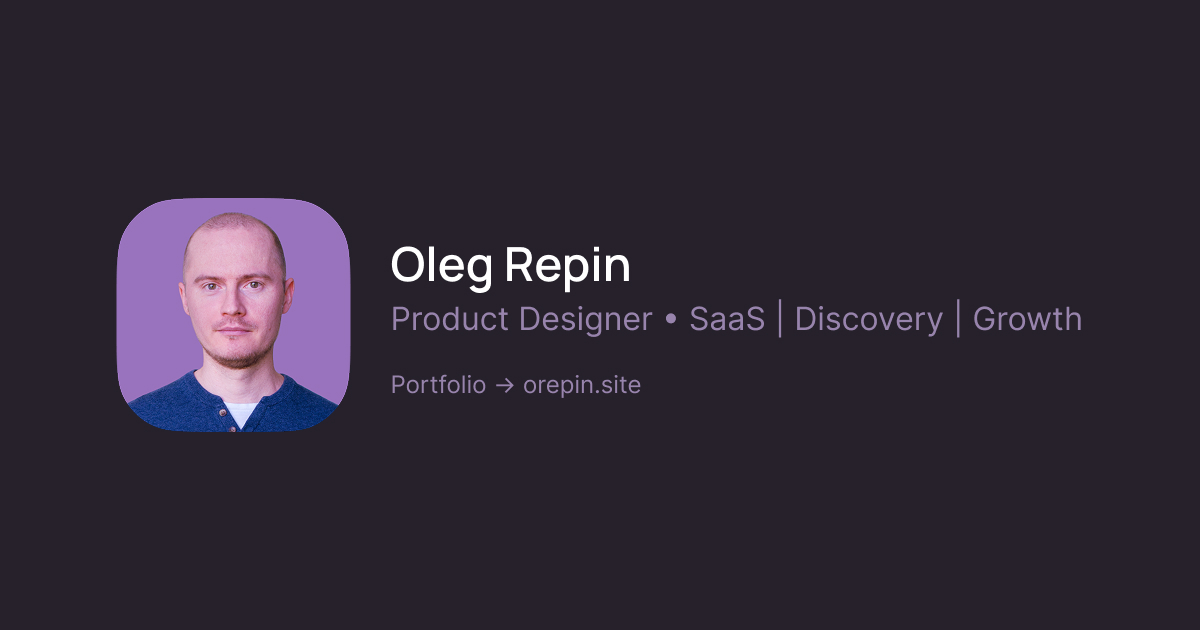
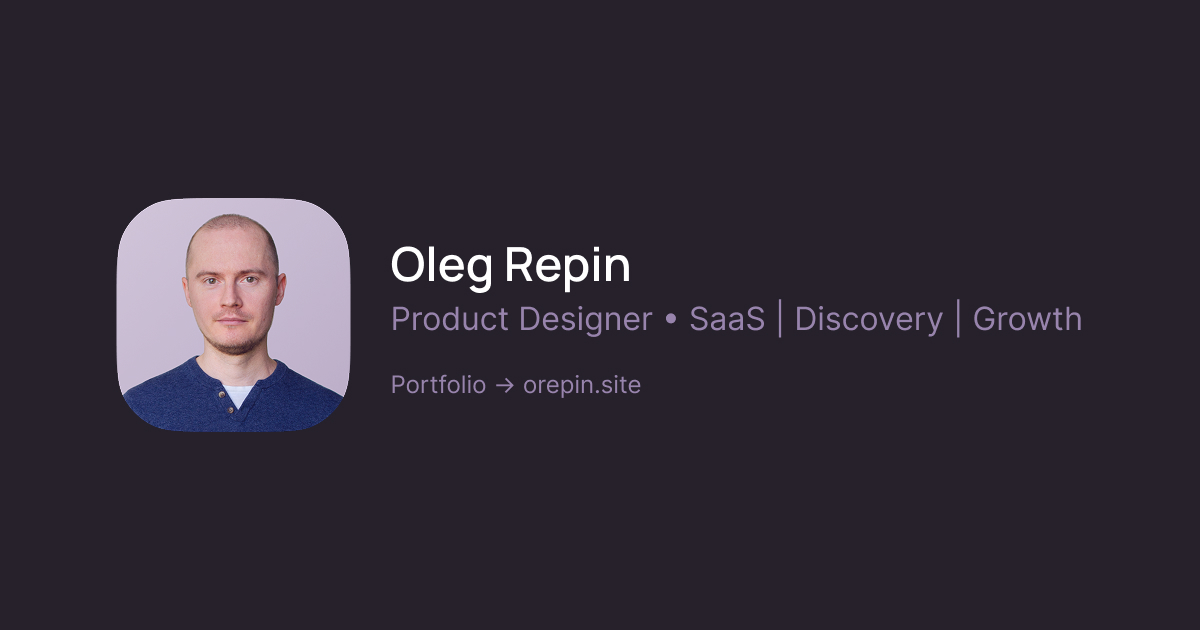
дефисы, перечркнутость аватарки заменил

Changed region(s): [[0.0925, 0.3016, 0.3083, 0.6937]]

diff --git a/html/case-ranking.html b/html/case-ranking.html
@@ -37,7 +37,7 @@
           </figure>
           <p>В&nbsp;бэклоге накопилось несколько задач на&nbsp;добавление новых типов вопросов. Их&nbsp;регулярно просили клиенты через менеджеров и&nbsp;отмечали в&nbsp;наших опросах в&nbsp;личном кабинете. Блок «Ранжирование» был одним из&nbsp;частых запросов.</p>
           <div class="text-block">
-            <h2>Бизнес-цель</h2>
+            <h2>Бизнес&#8209;цель</h2>
             <p>Увеличить выручку за&nbsp;счёт привлечения новых клиентов через тендеры и&nbsp;удержания существующих.</p>
           </div>
           <div class="text-block">
@@ -47,7 +47,7 @@
           <div class="text-block">
             <h2>Итоги на&nbsp;момент написания кейса</h2>
             <p>Релиз запланирован на&nbsp;конец 2025&nbsp;года, поэтому бизнес&#8209;результаты появятся позже. Сейчас я&nbsp;уже не&nbsp;работаю в&nbsp;компании и&nbsp;не&nbsp;участвую в&nbsp;релизе.</p>
-            <p>Работая над задачей, я&nbsp;сосредоточился на&nbsp;том, чтобы продуктовая команда получила решение с&nbsp;понятным виженом, сценариями, UX-обоснованием и&nbsp;измеримыми целями.</p>
+            <p>Работая над задачей, я&nbsp;сосредоточился на&nbsp;том, чтобы продуктовая команда получила решение с&nbsp;понятным виженом, сценариями, UX&#8209;обоснованием и&nbsp;измеримыми целями.</p>
             <p>Определили с&nbsp;продактом, на&nbsp;что будем смотреть после релиза, чтобы оценить успех задачи: долю исследований с&nbsp;этим типом вопроса, CSI исследователей, снижение оттока и&nbsp;влияние фичи на&nbsp;продажи новым клиентам.</p>
             <p>Таким образом я&nbsp;закрыл стратегическую подготовку фичи и&nbsp;передал команде все материалы для&nbsp;реализации.</p>
           </div>       
@@ -56,7 +56,7 @@
         <h2>Теперь подробнее</h2>
         <div class="text-block">
           <h3>Моя роль и&nbsp;шаги</h3>
-          <p>Был продуктовым дизайнером в&nbsp;кросс-команде. Отвечал за&nbsp;исследования, UX&#8209;тесты и&nbsp;проработку сценариев в&nbsp;личном кабинете платформы, а&nbsp;также форм опросов во&nbsp;всех трёх продуктах компании. Обеспечил полную подготовку задачи к&nbsp;разработке.</p>
+          <p>Был продуктовым дизайнером в&nbsp;кросс&#8209;команде. Отвечал за&nbsp;исследования, UX&#8209;тесты и&nbsp;проработку сценариев в&nbsp;личном кабинете платформы, а&nbsp;также форм опросов во&nbsp;всех трёх продуктах компании. Обеспечил полную подготовку задачи к&nbsp;разработке.</p>
         </div>
         <section class="case-steps">
           <div class="step">
@@ -75,14 +75,14 @@
           <div class="step">
               <h3>Собрал&nbsp;User&nbsp;Story&nbsp;Map</h3>
               <div>
-                <p>Собрал карту сценариев по&nbsp;личному кабинету и&nbsp;формам (Web, Link, App). Зафиксировал MVP-скоуп, а&nbsp;сложные или спорные&nbsp;сценарии отложил на&nbsp;следующие итерации.</p>
+                <p>Собрал карту сценариев по&nbsp;личному кабинету и&nbsp;формам (Web, Link, App). Зафиксировал MVP&#8209;скоуп, а&nbsp;сложные или спорные&nbsp;сценарии отложил на&nbsp;следующие итерации.</p>
                 <div>
                   <a href="https://miro.com/app/live-embed/o9J_kwwEvKg=/?focusWidget=3458764642529485279&embedMode=view_only_without_ui&embedId=540593321931" target="_blank" class="external-link miro-link">USM в&nbsp;Miro</a>
                 </div>
               </div>
           </div>
           <div class="step">
-              <h3>Провел UX-тесты</h3>
+              <h3>Провел UX&#8209;тесты</h3>
               <p>Проверил несколько сценариев взаимодействия с&nbsp;вопросом, выбрал и&nbsp;доработал самые удобные для&nbsp;респондентов.</p>
   
           </div>
@@ -99,11 +99,11 @@
       <div class="case-solutions">
         <div class="text-block">
           <h2>Интервью с&nbsp;исследователями</h2>
-          <p>Я&nbsp;сфокусировался на&nbsp;исследователях и&nbsp;руководителях исследовательских отделов — людях с&nbsp;опытом работы с&nbsp;приоритизацией и&nbsp;сложными опросами. За&nbsp;три дня провёл 7&nbsp;интервью с&nbsp;10&nbsp;участниками. Обсуждали, как они решают задачу ранжирования, какие данные используют и&nbsp;что мешает. С&nbsp;остальными, кто не&nbsp;смог созвониться, я&nbsp;провёл короткий онлайн-опрос, чтобы не&nbsp;потерять инсайты.</p>  
+          <p>Я&nbsp;сфокусировался на&nbsp;исследователях и&nbsp;руководителях исследовательских отделов — людях с&nbsp;опытом работы с&nbsp;приоритизацией и&nbsp;сложными опросами. За&nbsp;три дня провёл 7&nbsp;интервью с&nbsp;10&nbsp;участниками. Обсуждали, как они решают задачу ранжирования, какие данные используют и&nbsp;что мешает. С&nbsp;остальными, кто не&nbsp;смог созвониться, я&nbsp;провёл короткий онлайн&#8209;опрос, чтобы не&nbsp;потерять инсайты.</p>  
         </div>
         <div class="solution-block">
           <div>
-            <p><strong>Инсайт:</strong> У&nbsp;исследователей разные подходы к&nbsp;приоритизации: в&nbsp;одних сценариях важно отранжировать все варианты, в&nbsp;других — только часть (например, топ-3). Если не&nbsp;задать чёткие правила, респонденты отвечают по-разному, и&nbsp;результаты становятся шумными и&nbsp;требуют ручной чистки.</p>
+            <p><strong>Инсайт:</strong> У&nbsp;исследователей разные подходы к&nbsp;приоритизации: в&nbsp;одних сценариях важно отранжировать все варианты, в&nbsp;других — только часть (например, топ&#8209;3). Если не&nbsp;задать чёткие правила, респонденты отвечают по&#8209;разному, и&nbsp;результаты становятся шумными и&nbsp;требуют ручной чистки.</p>
             <p><strong>Решение:</strong> Добавил гибкие правила: минимум&nbsp;N, не&nbsp;больше&nbsp;N или все варианты. Теперь вопрос можно точно настроить под задачу, что уменьшит количество некачественных ответов.</p>
           </div>
           <figure class="media media--wide media--radius"><img src="../assets/image_ranking_02.png" alt="обложка кейса" class="zoomable"></figure>
@@ -132,12 +132,12 @@
       </div>
       <div class="case-solutions">
         <div class="text-block">
-          <h2>Коридорное UX-тестирование</h2>
+          <h2>Коридорное UX&#8209;тестирование</h2>
           <p>Провёл три итерации коридорных тестов с&nbsp;16 участниками. На первой проверял отдельные паттерны на&nbsp;интерактивных прототипах, собранных в&nbsp;Figma&nbsp;Make. На&nbsp;второй и&nbsp;третьей использовал формы конкурентов, чтобы сравнить лидеров и&nbsp;доработать финальный сценарий не&nbsp;упарываясь в&nbsp;генерацию прототипов.</p>
         </div>
         <div class="solution-block">
           <div class="text-block">
-            <p><strong>Инсайт:</strong> В&nbsp;лидеры вышли два способа взаимодействия. Tap — самый простой и&nbsp;быстрый, но&nbsp;неудобен для&nbsp;правок. Drag-and-Drop — интуитивный, особенно при малом числе вариантов, но&nbsp;часто конфликтует со&nbsp;скроллом на&nbsp;мобилках.</p>
+            <p><strong>Инсайт:</strong> В&nbsp;лидеры вышли два способа взаимодействия. Tap — самый простой и&nbsp;быстрый, но&nbsp;неудобен для&nbsp;правок. Drag&#8209;and&#8209;Drop — интуитивный, особенно при малом числе вариантов, но&nbsp;часто конфликтует со&nbsp;скроллом на&nbsp;мобилках.</p>
             <p><strong>Решение:</strong> Объединил Tap для&nbsp;быстрого ранжирования и&nbsp;DnD для&nbsp;правок. Добавил задержку и&nbsp;анимацию захвата, чтобы избежать конфликтов со&nbsp;скроллом. Подготовил пример анимации в&nbsp;<a href="https://codepen.io/yvelir2008/pen/raOPPza" target="_blank">codepen.io</a> с&nbsp;таймингами и&nbsp;вибрацией, чтобы точно передать ожидаемое поведение разработчикам.</p>
           </div>
           <figure class="media media--medium"><img src="../assets/image_ranking_06.png" alt="обложка кейса" class="zoomable"></figure>

diff --git a/html/case-link.html b/html/case-link.html
@@ -30,14 +30,14 @@
         <span class="casecard__meta">Февраль&nbsp;2023</span>
         <div class="case-header">
           <h1>Как&nbsp;запускал новый&nbsp;продукт UX&nbsp;Feedback&nbsp;Link</h1>
-          <p>Это инструмент для сбора фидбека по&nbsp;ссылке для&nbsp;UX/CX-исследований и&nbsp;HR-опросов.</p>        
+          <p>Это инструмент для сбора фидбека по&nbsp;ссылке для&nbsp;UX/CX-исследований и&nbsp;HR&#8209;опросов.</p>        
         </div>
         <figure class="casecard__media media media--cover media--medium">
           <img src="../assets/cover-link.png" alt="UX Feedback Link" />
         </figure>
         <p>До&nbsp;Link у&nbsp;нас было два продукта — опросы на&nbsp;сайте (Web) и&nbsp;в&nbsp;мобильном приложении&nbsp;(App). Они отлично работали для&nbsp;коротких опросов в&nbsp;моменте, но&nbsp;не&nbsp;покрывали сценарии с&nbsp;длинными анкетами. Когда у&nbsp;клиентов появлялась необходимость в&nbsp;глубинных исследованиях, они&nbsp;уходили во&nbsp;внешние сервисы. В&nbsp;итоге ответы оказывались в&nbsp;разных инструментах, их&nbsp;приходилось собирать вручную, а&nbsp;анализ становился сложнее. Это влияло и&nbsp;на&nbsp;удержание.</p>
         <div class="text-block">
-          <h2>Бизнес-цель</h2>
+          <h2>Бизнес&#8209;цель</h2>
           <p>Увеличить выручку за&nbsp;счёт удержания клиентов и&nbsp;расширения сценариев использования.</p>
         </div>
         <div class="text-block">
@@ -59,7 +59,7 @@
         <h2>Теперь подробнее</h2>
         <div class="text-block">
           <h3>Моя роль и&nbsp;шаги</h3>
-          <p>Был единственным дизайнером в&nbsp;кросс-команде с&nbsp;продактом CPO, аналитиком, проджектом, разработкой и&nbsp;тестировщиком. Вёл задачу от&nbsp;дискавери до&nbsp;запуска и&nbsp;последующего развития продукта.</p>
+          <p>Был единственным дизайнером в&nbsp;кросс&#8209;команде с&nbsp;<s>продактом</s> CPO, аналитиком, проджектом, разработкой и&nbsp;тестировщиком. Вёл задачу от&nbsp;дискавери до&nbsp;запуска и&nbsp;последующего развития продукта.</p>
         </div>
         <section class="case-steps">
           <div class="step">
@@ -89,7 +89,7 @@
               <ul>
                   <li><p>Провёл груминг для команды на&nbsp;пару с&nbsp;аналитиком, уточнили и&nbsp;закрыли мелкие вопросы по&nbsp;сторям.</p></li>
                   <li><p>Совместно с&nbsp;командой декомпозировали задачи, оценили и&nbsp;зафиксировали их в&nbsp;Jira.</p></li>
-                  <li><p>Сопровождал разработку, провел дизайн-ревью после&nbsp;QA.</p></li>
+                  <li><p>Сопровождал разработку, провел дизайн&#8209;ревью после&nbsp;QA.</p></li>
               </ul>
           </div>
           <div class="step">
@@ -118,7 +118,7 @@
         <div class="solution-block">
           <div class="text-block">
             <h3>Кастомизация под&nbsp;бренд</h3>
-            <p>При проектировании Link заложил возможность переиспользования стилей&nbsp;из Web-продукта. Менеджеры могут в&nbsp;один клик перенести фирменное оформление клиента в&nbsp;новый проект — без ручных правок. Это ускоряет запуск нового клиентского проекта и&nbsp;сохраняет визуальную консистентность. Формы при этом можно легко адаптировать под события или&nbsp;промо-кампании.</p>
+            <p>При проектировании Link заложил возможность переиспользования стилей&nbsp;из Web&#8209;продукта. Менеджеры могут в&nbsp;один клик перенести фирменное оформление клиента в&nbsp;новый проект — без ручных правок. Это ускоряет запуск нового клиентского проекта и&nbsp;сохраняет визуальную консистентность. Формы при этом можно легко адаптировать под события или&nbsp;промо-кампании.</p>
           </div>
           <figure class="media media--wide media--radius"><img src="../assets/image_link_03.gif" alt="обложка кейса" class="zoomable"></figure>
         </div>
@@ -148,7 +148,7 @@
         <div class="text-block">
           <h2>Что я&nbsp;вынес из этой истории</h2>
           <p><span>Link подтвердил ценность проведения глубоких исследований внутри платформы.</span></br>Клиенты были готовы платить не&nbsp;просто за&nbsp;возможность проводить длинные опросы, а&nbsp;за&nbsp;то, что&nbsp;теперь могут делать это в&nbsp;том же&nbsp;пространстве, где собирают инмомент-фидбек. Единое хранилище данных упростило аналитику и&nbsp;повысило вовлечённость, а&nbsp;для нас стало новым источником выручки.</p>
-          <p><span>MVP с&nbsp;базовым функционалом дал быстрый выход на&nbsp;рынок, но&nbsp;не&nbsp;закрыл все потребности.</span></br>Запуск без сложных типов вопросов помог быстро подтвердить ценность и&nbsp;начать продажи. Дальнейшее развитие отложили из-за приоритетов других стримов и&nbsp;нехватки ресурсов. Не&nbsp;все&nbsp;потенциальныеклиенты подключили Link — им&nbsp;не&nbsp;хватало привычных для&nbsp;глубинных исследований типов вопросов: ранжирования, матриц, семантического дифференциала и&nbsp;карточной сортировки. С&nbsp;ними Link мог бы&nbsp;вырасти сильнее.</p>
+          <p><span>MVP с&nbsp;базовым функционалом дал быстрый выход на&nbsp;рынок, но&nbsp;не&nbsp;закрыл все потребности.</span></br>Запуск без сложных типов вопросов помог быстро подтвердить ценность и&nbsp;начать продажи. Дальнейшее развитие отложили из&#8209;за приоритетов других стримов и&nbsp;нехватки ресурсов. Не&nbsp;все&nbsp;потенциальныеклиенты подключили Link — им&nbsp;не&nbsp;хватало привычных для&nbsp;глубинных исследований типов вопросов: ранжирования, матриц, семантического дифференциала и&nbsp;карточной сортировки. С&nbsp;ними Link мог бы&nbsp;вырасти сильнее.</p>
         </div>
       </div>
     </article>
